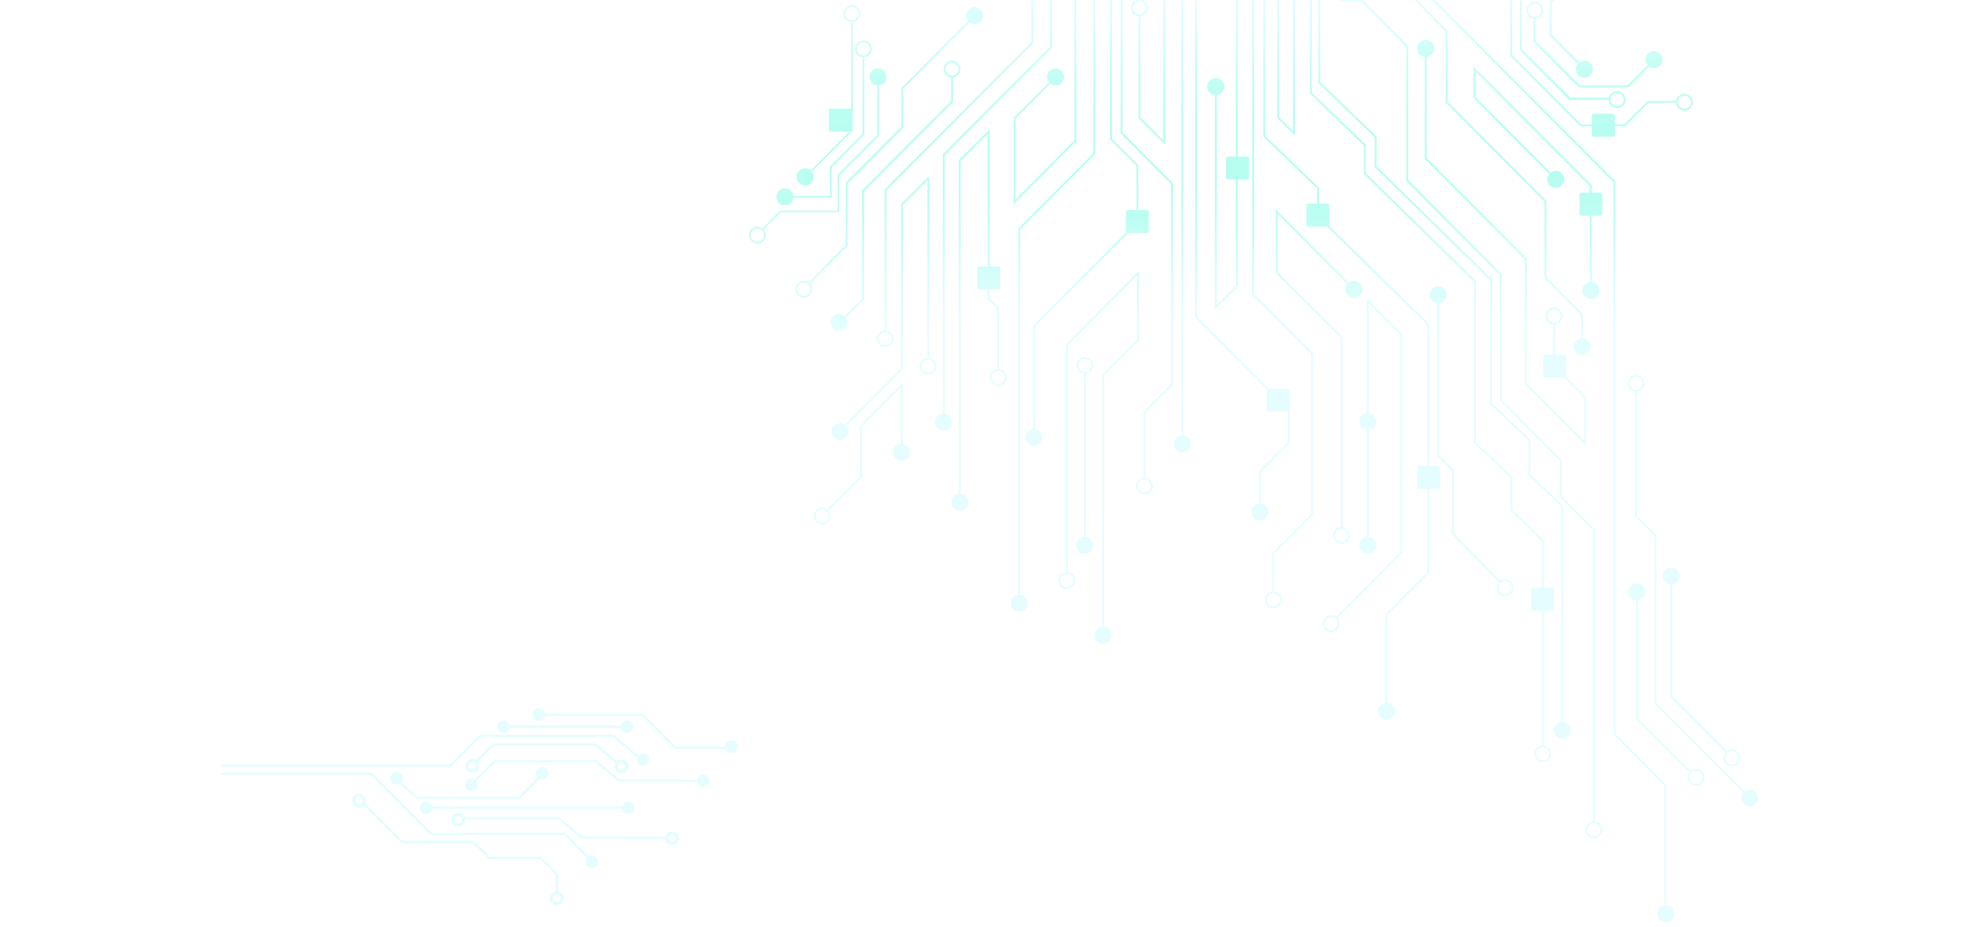
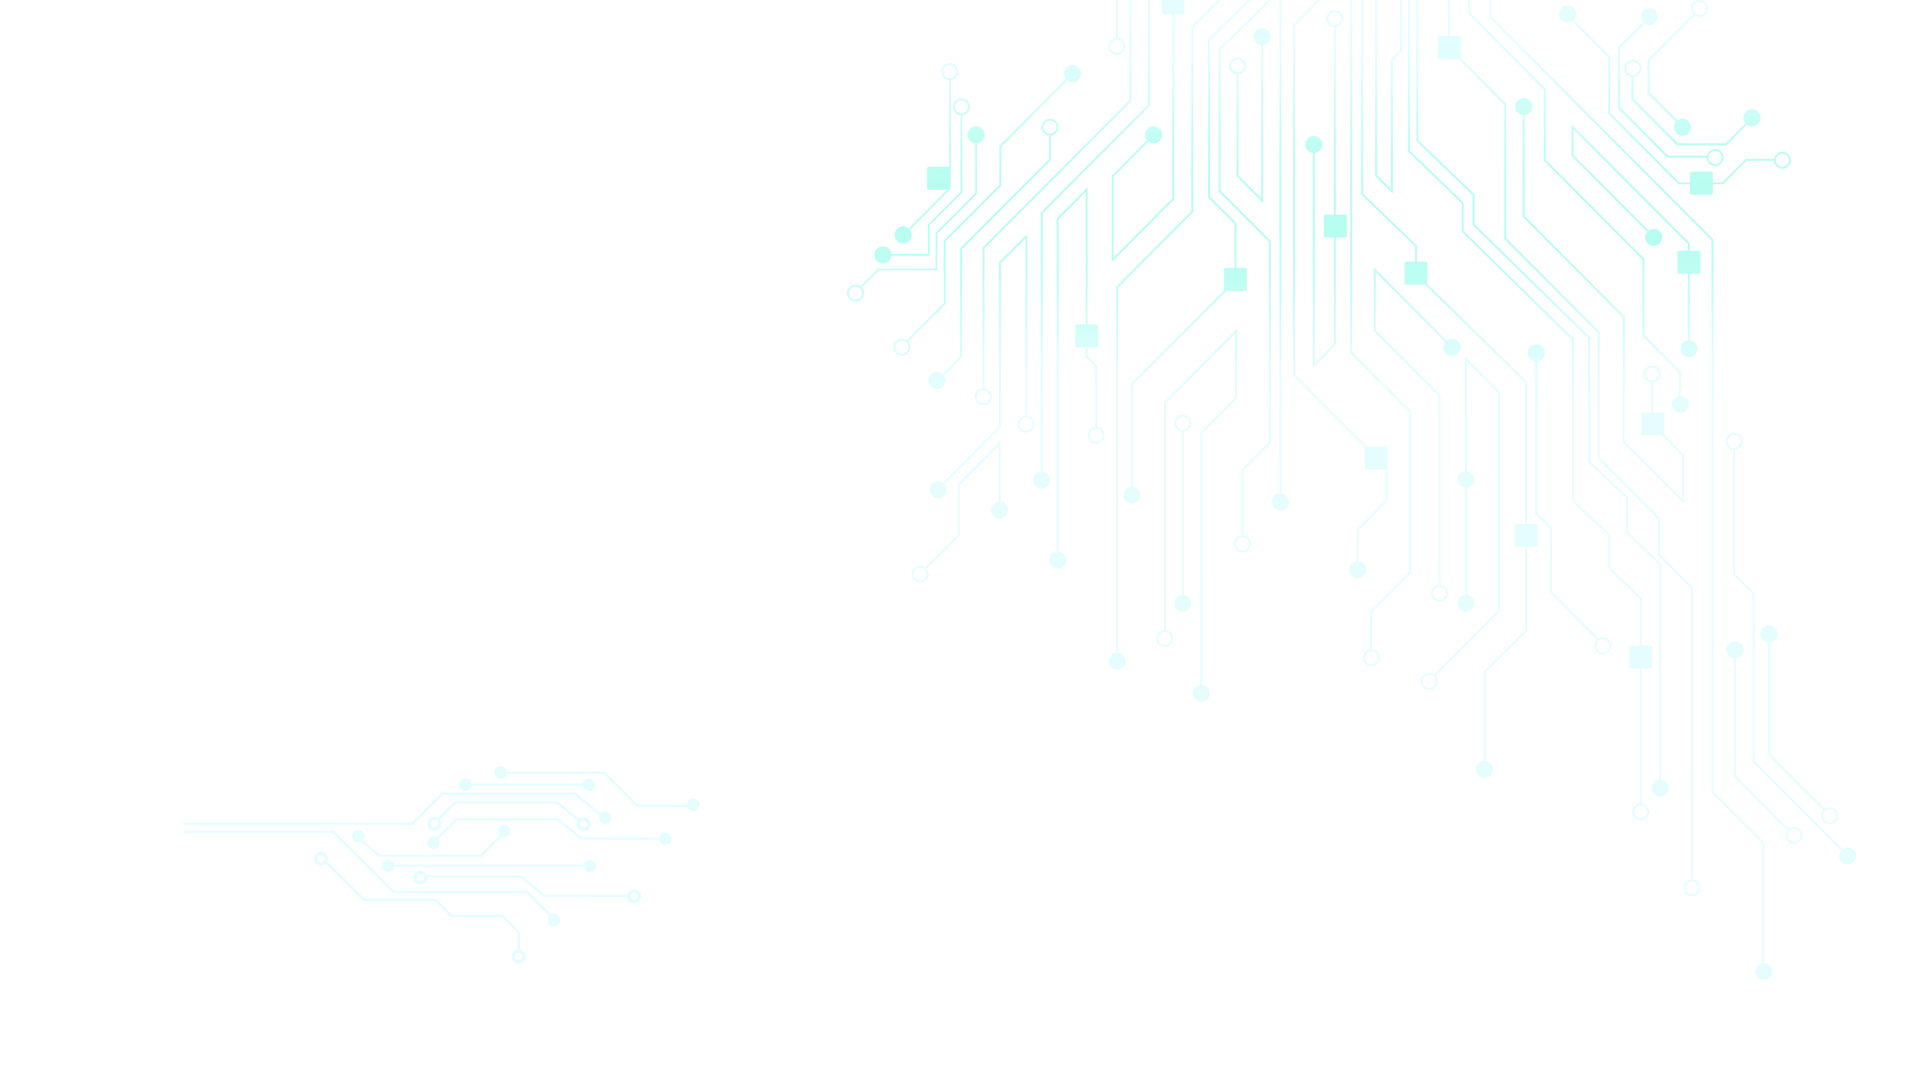
适配更新

diff --git a/css/index.css b/css/index.css
@@ -4125,7 +4125,6 @@ img {
     font-size: 16px;
     color: #fff;
     padding-top: 5px;
-    padding-left: 10px;
     box-sizing: border-box;
     cursor: pointer;
     text-decoration: none;
@@ -4204,7 +4203,7 @@ img {
 
 #page_download_show {
     position: absolute;
-    top: 30%;
+    top: 40%;
     right: 15%;
     width: 38.7%;
 }
@@ -4212,7 +4211,6 @@ img {
 #page_download_show_top {
     position: absolute;
     width: 100%;
-    padding-bottom: 54.9%;
 }
 
 #page_download_text {
@@ -4225,7 +4223,7 @@ img {
     font-weight: inherit;
     position: absolute;
     top: 10%;
-    left: 20%;
+    left: 40%;
     opacity: 0;
     text-shadow: 0px 2px 3px rgba(0, 0, 0, 0.3);
     text-rendering: geometricPrecision;
@@ -4404,7 +4402,7 @@ img {
     font-family: text;
     color: white;
     font-weight: inherit;
-    font-size: 90%;
+    font-size: 100%;
     line-height: 175%;
     text-shadow: 0px 2px 3px rgba(0, 0, 0, 0.3);
     opacity: 0;
@@ -4878,26 +4876,26 @@ img {
 	#page_function1 {
 	    background-color: #1a1d3e;
 	    background-image: url(../images/bg-2.png);
-	    background-size: auto 90%;
+	    background-size: auto 100%;
 	    background-repeat: no-repeat;
 	}
 	#page_function2 {
 	    background-color: #1a1d3e;
 	    background-image: url(../images/bg-3.png);
-	    background-size: auto 90%;
+	    background-size: auto 120%;
 	    background-repeat: no-repeat;
 	}
 	
 	#page_function3 {
 	    background-color: #1a1d3e;
 	    background-image: url(../images/bg-4.png);
-	    background-size: auto 90%;
+	    background-size: auto 100%;
 	    background-repeat: no-repeat;
 	}
 	#page_function4 {
 	    background-color: #1a1d3e;
 	    background-image: url(../images/bg-5.png);
-	    background-size: auto 90%;
+	    background-size: auto 115%;
 	    background-repeat: no-repeat;
 	}
 }

diff --git a/css/index_page1.css b/css/index_page1.css
@@ -461,7 +461,8 @@ em, i {
     width: 491px;
     height: 501px;
     background: url('../images/page1/map.png') no-repeat center;
-    background-size: 491px 501px;
+    /* background-size: 491px 501px; */
+    background-position-y: 10%;
 }
 .map .dot {
     position: absolute;
@@ -631,9 +632,9 @@ em, i {
 	}
 }*/
 
-@media (min-width: 1280px) and (max-width:1366px) {
+@media (min-width: 1024px) and (max-width:1366px) {
     #page_download_hand {
-	    left: 6%;
+	    left: 10%;
 	}
     .act-users-title {
         font-size: 20px;
@@ -646,7 +647,7 @@ em, i {
         margin-right: 0.6%;
     }
     .prov-bar-wrap {
-        margin-top: 15%;
+        margin-top: 10%;
         flex: 0 0 50%;
         width: 50%;
     }
@@ -656,34 +657,35 @@ em, i {
     .map-wrap .map {
         width: 471px;
         height: 481px;
-        background-size: 471px 481px;
+        background-size: 80%;
+        margin-left: -60px;
     }
     /* 南京 */
     .map .dot1 {
-        left: 186px;
-        top: 320px;
+        left: 196px;
+        top: 270px;
         width: 18px;
         height: 18px;
     }
     /* 扬州 */
     .map .dot2 {
         left: 258px;
-        top: 244px;
+        top: 214px;
     }
     /* 南通 */
     .map .dot3 {
-        left: 380px;
-        top: 310px;
+        left: 350px;
+        top: 260px;
     }
     /* 无锡 */
     .map .dot4 {
-        left: 315px;
-        top: 395px;
+        left: 300px;
+        top: 325px;
     }
     /* 苏州 */
     .map .dot5 {
-        left: 354px;
-        top: 410px;
+        left: 334px;
+        top: 340px;
     }
 
     .prov-bar {
